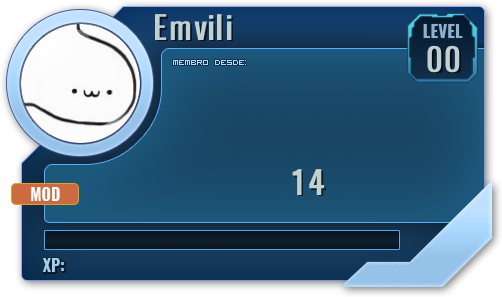
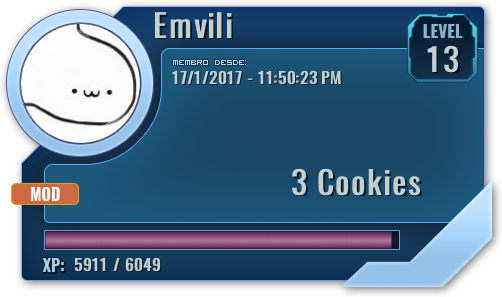
Cookies

diff --git a/pollux.js b/pollux.js
@@ -1,7 +1,10 @@
 const Discord = require("discord.js");
 const fs = require("fs");
 const bot = new Discord.Client();
-const getter = require('booru-getter')
+const getter = require('booru-getter');
+var sortJson = require('sort-json');
+var arraySort = require('array-sort');
+
 var Jimp = require("jimp");
 bot.login("MjcxMzk0MDE0MzU4NDA1MTIx.C2Fy7Q.R4Fmoe-fKNsbPML_9zsBDzvQ6KA");
 let points = JSON.parse(fs.readFileSync('./points.json', 'utf8'));
@@ -12,6 +15,8 @@ var responseObject = {
     , "lol": "roflmaotntpmp"
 };
 var counter = 0
+let drops = 0
+let vacuum = []
     //
     //===============================================================
     //             PATHS
@@ -24,6 +29,7 @@ const CARDS = "./imgres/usercards/"
 const BUILD = "./imgres/build/"
 const FONTS = "./fonts/"
 const LVBAR = "./misc/levelbars/"
+const RANK = points
 const hook = new Discord.WebhookClient('272073532983345156', 'R9ZazRH9UWfojUO3wwEUTI45kQ21raefTRDxLZWwhgYXRP4_GB_2sNZHqpfoc8l3ayDL');
 //
 //===============================================================
@@ -55,7 +61,8 @@ function checkment(message) {
     return tgt
 }
 
-function glassify(img, call) {
+function glassify(img, call,msg = false) {
+
     Jimp.read(img).then(function (user) {
         Jimp.read(BUILD + "glass.png").then(function (glass) {
             Jimp.read(BUILD + "note.png").then(function (lenna) {
@@ -65,6 +72,7 @@ function glassify(img, call) {
                 Jimp.read(BUILD + "note.png").then(function (lennaB) {
                     lennaB.composite(user, 0, 0)
                     lennaB.mask(lenna, 0, 0)
+
                     lennaB.write(`${GLASS}/${call}.png`);
                 });
             });
@@ -100,8 +108,8 @@ bot.on("message", message => {
     //
     //LEVEL UP CHECKER
     //-----------------------------------------------------
-    let curLevel = Math.floor(0.15 * Math.sqrt(userData.points));
-    let forNext = Math.trunc(Math.pow((userData.level + 1) / 0.15, 2));
+    let curLevel = Math.floor(0.18 * Math.sqrt(userData.points));
+    let forNext = Math.trunc(Math.pow((userData.level + 1) / 0.18, 2));
     if (curLevel > userData.level) {
         // Level up!
         userData.level = curLevel;
@@ -122,7 +130,7 @@ bot.on("message", message => {
                             catch (err) {
                                 var level = "00"
                             }
-                            var next = Math.trunc(Math.pow((Number(level) + 1) / 0.15, 2));
+                            var next = Math.trunc(Math.pow((Number(level) + 1) / 0.18, 2));
                             if (level.length == 1) {
                                 level = `0${level}`
                             }
@@ -190,6 +198,45 @@ bot.on("message", message => {
             message.channel.sendFile(`${MISC}/${caller}.png`)
         }, 2000);
     };
+    //
+    //RANK
+    //-----------------------------------------------------
+
+    if (message.content.startsWith(prefix + "rank")) {
+
+        var rankItem=[]
+     var ranked=[]
+        for (var i in points){
+          rankItem.name = points[i].name
+          rankItem.points = points[i].points
+          rankItem.level = points[i].level
+
+          ranked.push(rankItem)
+          rankItem=[]
+        }
+
+        arraySort(ranked,'points',{reverse: true})
+        console.log(ranked)
+        let replyData = `
+:first_place: 1st   **${ranked[0].name}**  Level ${ranked[0].level}
+
+:second_place: 2nd  **${ranked[1].name}** Level ${ranked[1].level}
+
+:third_place: 3rd   **${ranked[2].name}**  Level ${ranked[2].level}
+
+:medal: 4th **${ranked[3].name}**    Level ${ranked[3].level}
+
+:medal: 5th **${ranked[4].name}**    Level ${ranked[4].level}
+
+                        `
+        message.channel.sendMessage(replyData)
+
+
+    };
+
+
+
+
     //
     //Avatar Fetcher
     //-----------------------------------------------------
@@ -261,21 +308,28 @@ bot.on("message", message => {
     //-----------------------------------------------------
     if (message.content.startsWith(prefix + "profile") || message.content.startsWith(prefix + "level")) {
         let tgt = checkment(message)
+
         let tgtData = points[tgt.id];
         console.log("COMP INVOKED")
         let img = tgt.avatarURL.substr(0, tgt.avatarURL.length - 10)
-        glassify(img, caller)
+
+        glassify(img, caller, message)
         setTimeout(function () {
+
             Jimp.read(`${GLASS}/${caller}.png`).then(function (photo) {
+           console.log("1")
                 Jimp.read(BUILD + 'cartela.png').then(function (cart) {
+                     console.log("2")
                     Jimp.read(BUILD + 'levbar.png').then(function (bar) {
+                          console.log("3")
                         let adm = checkAdm(message, tgt)
+                         console.log("4")
                         Jimp.read(BUILD + adm + '.png').then(function (tag) {
                             Jimp.loadFont(FONTS + 'HEADING.fnt').then(function (head) { // load font from .fnt file
                                 Jimp.loadFont(FONTS + 'TXT.fnt').then(function (sub) {
                                     try {
                                         var level = tgtData.level.toString()
-                                        var money = tgtData.money.toString()
+                                        var money = tgtData.cookies.toString()
                                         var exp = tgtData.points.toString()
                                     }
                                     catch (err) {
@@ -283,7 +337,8 @@ bot.on("message", message => {
                                         var money = "00"
                                         var exp = "0000"
                                     }
-                                    var next = Math.trunc(Math.pow((Number(level) + 1) / 0.15, 2));
+                                     console.log("5")
+                                    var next = Math.trunc(Math.pow((Number(level) + 1) / 0.18, 2));
                                     var perc = Number(exp) / next
                                     if (level.length == 1) {
                                         level = `0${level}`
@@ -291,36 +346,43 @@ bot.on("message", message => {
                                     else if (level === undefined) {
                                         level = `XX`
                                     }
+                                     console.log("6")
                                     let join = message.guild.member(tgt).joinedAt
                                     let joinstamp = `${join.getDate()}/${join.getMonth()+1}/${join.getFullYear()} - ${join.toLocaleTimeString()}`;
                                     var stret = 354 * perc
                                     bar.resize(stret + 1, 18)
                                     if (tgt.bot) {
                                         level = "XX"
-                                        money = "INFINITE"
+                                        money = "INFINITE COOKIES"
                                         exp = "99999"
                                         next = "99999"
                                         bar.resize(354, 18)
                                     };
+                                     console.log("52")
+
                                     cart.print(head, 153, 3, message.guild.member(tgt).displayName);
                                     cart.print(head, 425, 37, `${level}`);
-                                    cart.print(head, 290, 160, `${money}`);
+                                    cart.print(head, 290, 160, `${money} Cookies`);
                                     cart.print(sub, 74, 253, `${exp} / ${next}`);
                                     cart.print(sub, 172, 66, `${joinstamp}`);
                                     cart.composite(bar, 45, 231)
                                     cart.composite(photo, 18, 20)
                                     cart.composite(tag, 7, 182)
-                                    cart.write(`${CARDS}/${caller}.png`)
+                                     console.log("5221234124124")
+
+                                    cart.write(`${CARDS}${caller}.png`)
+                                    console.log("FINNI")
+                                    //message.reply(caller)
                                 })
                             });
                         });
                     });
                 });
             });
-        }, 1000);
+        }, 500);
         setTimeout(function () {
-            message.channel.sendFile(`${CARDS}/${caller}.png`)
-        }, 2000);
+            message.channel.sendFile(`${CARDS}${caller}.png`)
+        }, 2200);
     };
     //
     //Reactions
@@ -405,6 +467,12 @@ Putaria, usar no canal NSFW ou serás mutado.
 \`+help\`
 Abre isso
 
+\`+pick\`
+Pega cookies largados
+
+\`$cook\`
+Veja quantos cookies você tem
+
 [] = _Argumento Opcional_
 <> = _Argumento Obrigatório_
 
@@ -414,7 +482,39 @@ Invite: https://discordapp.com/oauth2/authorize?client_id=271394014358405121&sco
         console.log("HELP INVOKED")
         message.reply("Te enviei uns lance em pvt, dá um zóio.")
 
+
+
     };
+
+       let droprate = randomize(0,1000);
+    console.log("DROPRATE "+droprate)
+        if (droprate>=900){
+                message.guild.defaultChannel.sendFile(BUILD+'cookie.png','Cookie.png',"OLHA GENTE! Um cookie! quem digitar \`+pick\` primeiro leva! ").then(function (cookpot){vacuum.push(cookpot)})
+
+        drops++
+        }
+    if (message.content.startsWith('$cook')) {
+        message.reply("voce tem "+userData.cookies+" cookies")
+    }
+     if (message.content.startsWith(prefix + "pick")) {
+         if(drops > 0){
+             userData.cookies+=drops
+             message.channel.sendMessage(message.author.username+" pegou "+drops+" Cookie(s)");
+             message.guild.defaultChannel.bulkDelete(vacuum)
+             drops = 0
+         }else{
+             message.channel.sendMessage("No Cookie");
+         }
+     }
+
+      if (message.content.startsWith(prefix + "admindrop")) {
+         // message.guild.defaultChannel.sendMessage()
+
+        message.guild.defaultChannel.sendFile(BUILD+'cookie.png','Cookie.png',"OLHA GENTE! Um cookie! quem digitar \`+pick\` primeiro leva! ").then(function (cookpot){vacuum.push(cookpot)})
+
+        drops++
+
+      }
     //-----------------------------------------------------
     //                                           END
     //-----------------------------------------------------
@@ -435,6 +535,10 @@ var current_hour = date.getHours();
 var counter = false;
 bot.on('ready', () => {
     console.log('START');
+
+
+
+
     var ts = Date.now().toString()
     fs.createReadStream('points.json').pipe(fs.createWriteStream('./backup/points_backup_' + ts + '.json'));
     // bot.setPlayingGame("Hyperdimension Neptunia")
